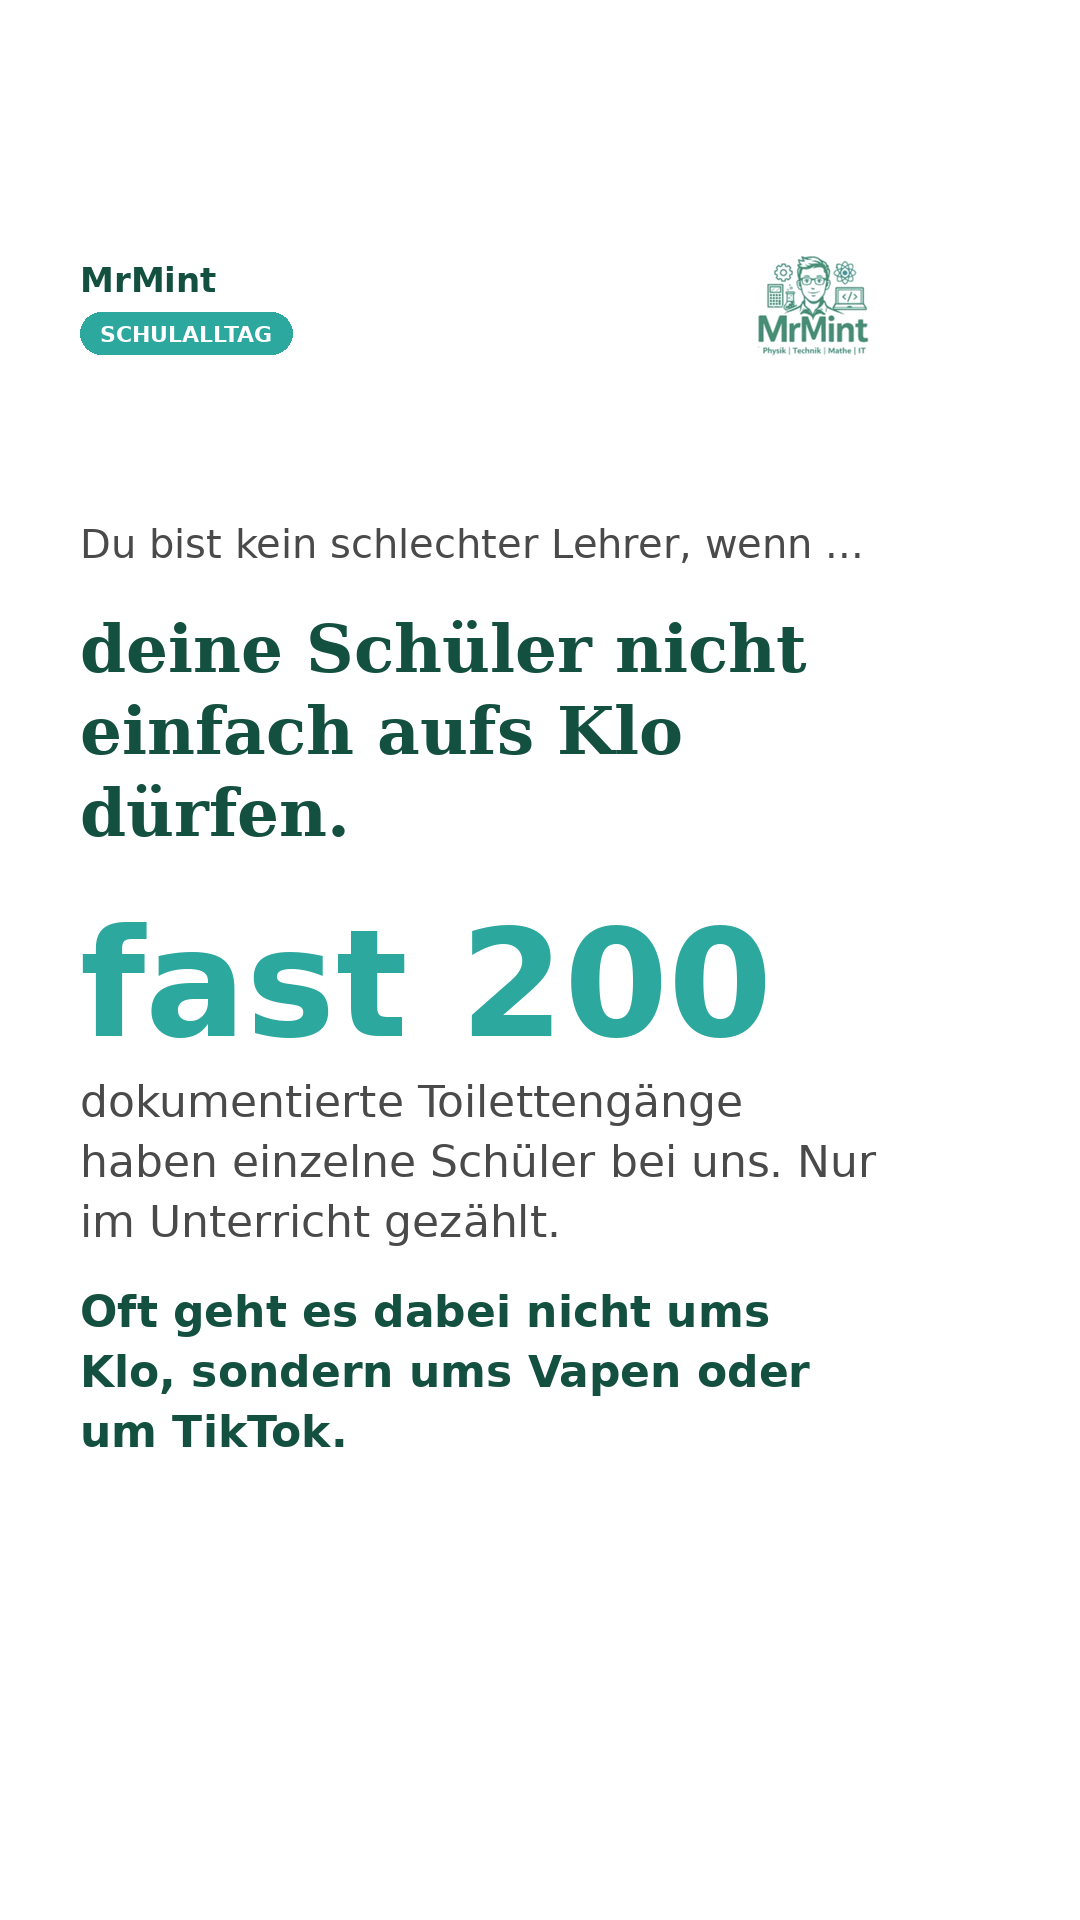
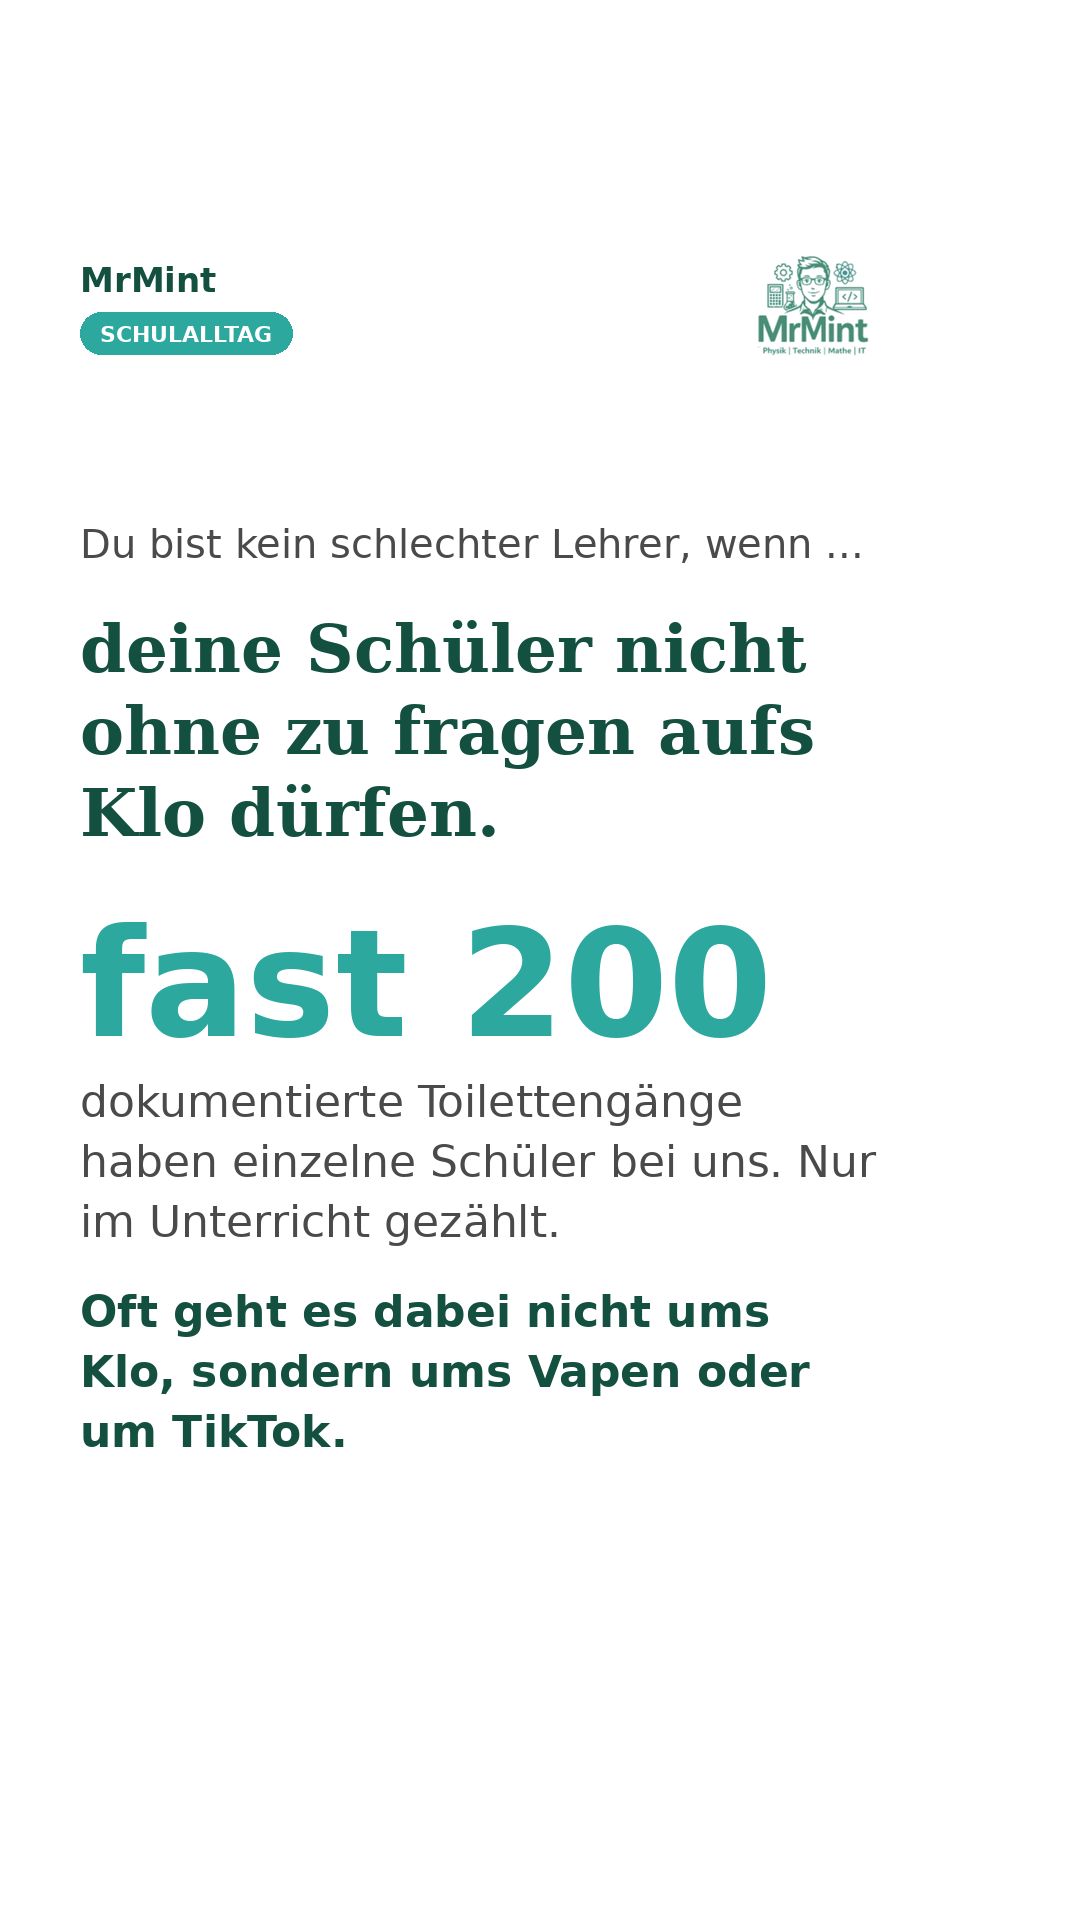
Slide 3 Klo Formulierung
Claude-Session: https://claude.ai/code/session_01NwDh8RBh1ZjGNarc6Syr5E

Changed region(s): [[0.0611, 0.3438, 0.7639, 0.4375]]

diff --git a/2026-10-kein-schlechter-lehrer/build.py b/2026-10-kein-schlechter-lehrer/build.py
@@ -35,7 +35,7 @@ img.save("r2.png")
 # 3 Klo
 img,d=base(TAG)
 y=pre(d)
-y=block(d,y,"deine Schüler nicht einfach aufs Klo dürfen.",sb(66),DG,82)+40
+y=block(d,y,"deine Schüler nicht ohne zu fragen aufs Klo dürfen.",sb(66),DG,82)+40
 d.text((M,y),"fast 200",font=b(150),fill=MINT); y+=180
 y=block(d,y,"dokumentierte Toilettengänge haben einzelne Schüler bei uns. Nur im Unterricht gezählt.",r(44),GRAY,60)+30
 y=block(d,y,"Oft geht es dabei nicht ums Klo, sondern ums Vapen oder um TikTok.",b(44),DG,60)
